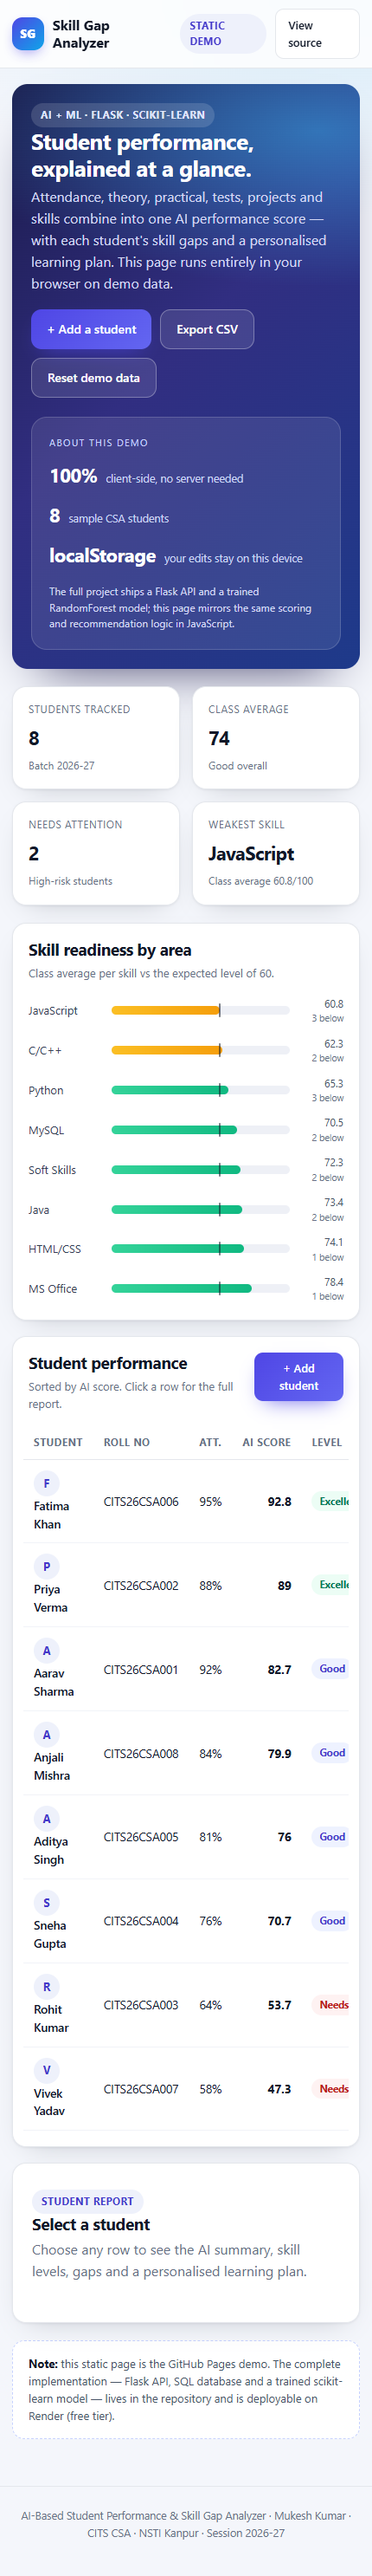
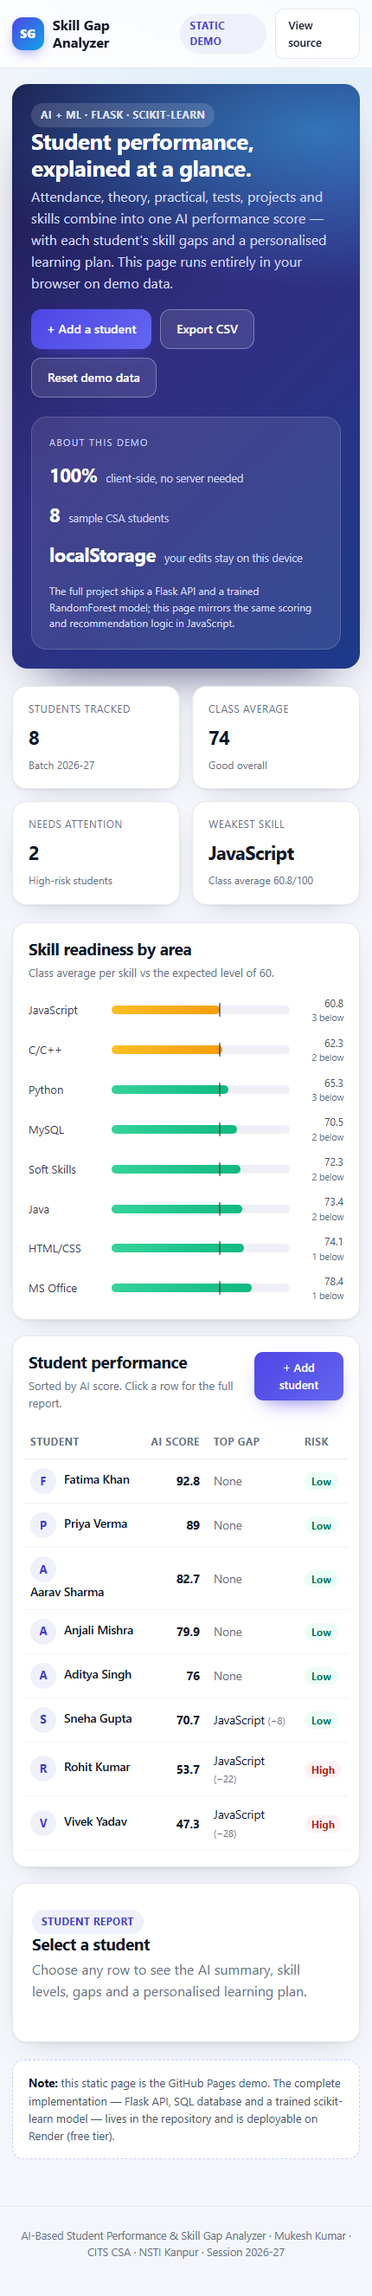
fix(demo): fit student table on phone screens

Changed region(s): [[0.0302, 0.0, 0.9674, 0.9898], [0.4535, 0.6805, 0.5442, 0.7733], [0.8465, 0.9589, 0.907, 0.9898]]

diff --git a/docs/styles.css b/docs/styles.css
@@ -289,4 +289,10 @@ p { margin: 0 0 10px; }
   .form-grid { grid-template-columns: 1fr; }
   .mini-stats { grid-template-columns: repeat(3, minmax(0, 1fr)); }
   .dialog form { padding: 18px; }
+  .table { min-width: 0; }
+  .table th, .table td { padding: 10px 8px; }
+  /* Keep the table readable on phones: roll no, attendance and level move into the report card. */
+  .table th:nth-child(2), .table td:nth-child(2),
+  .table th:nth-child(3), .table td:nth-child(3),
+  .table th:nth-child(5), .table td:nth-child(5) { display: none; }
 }
